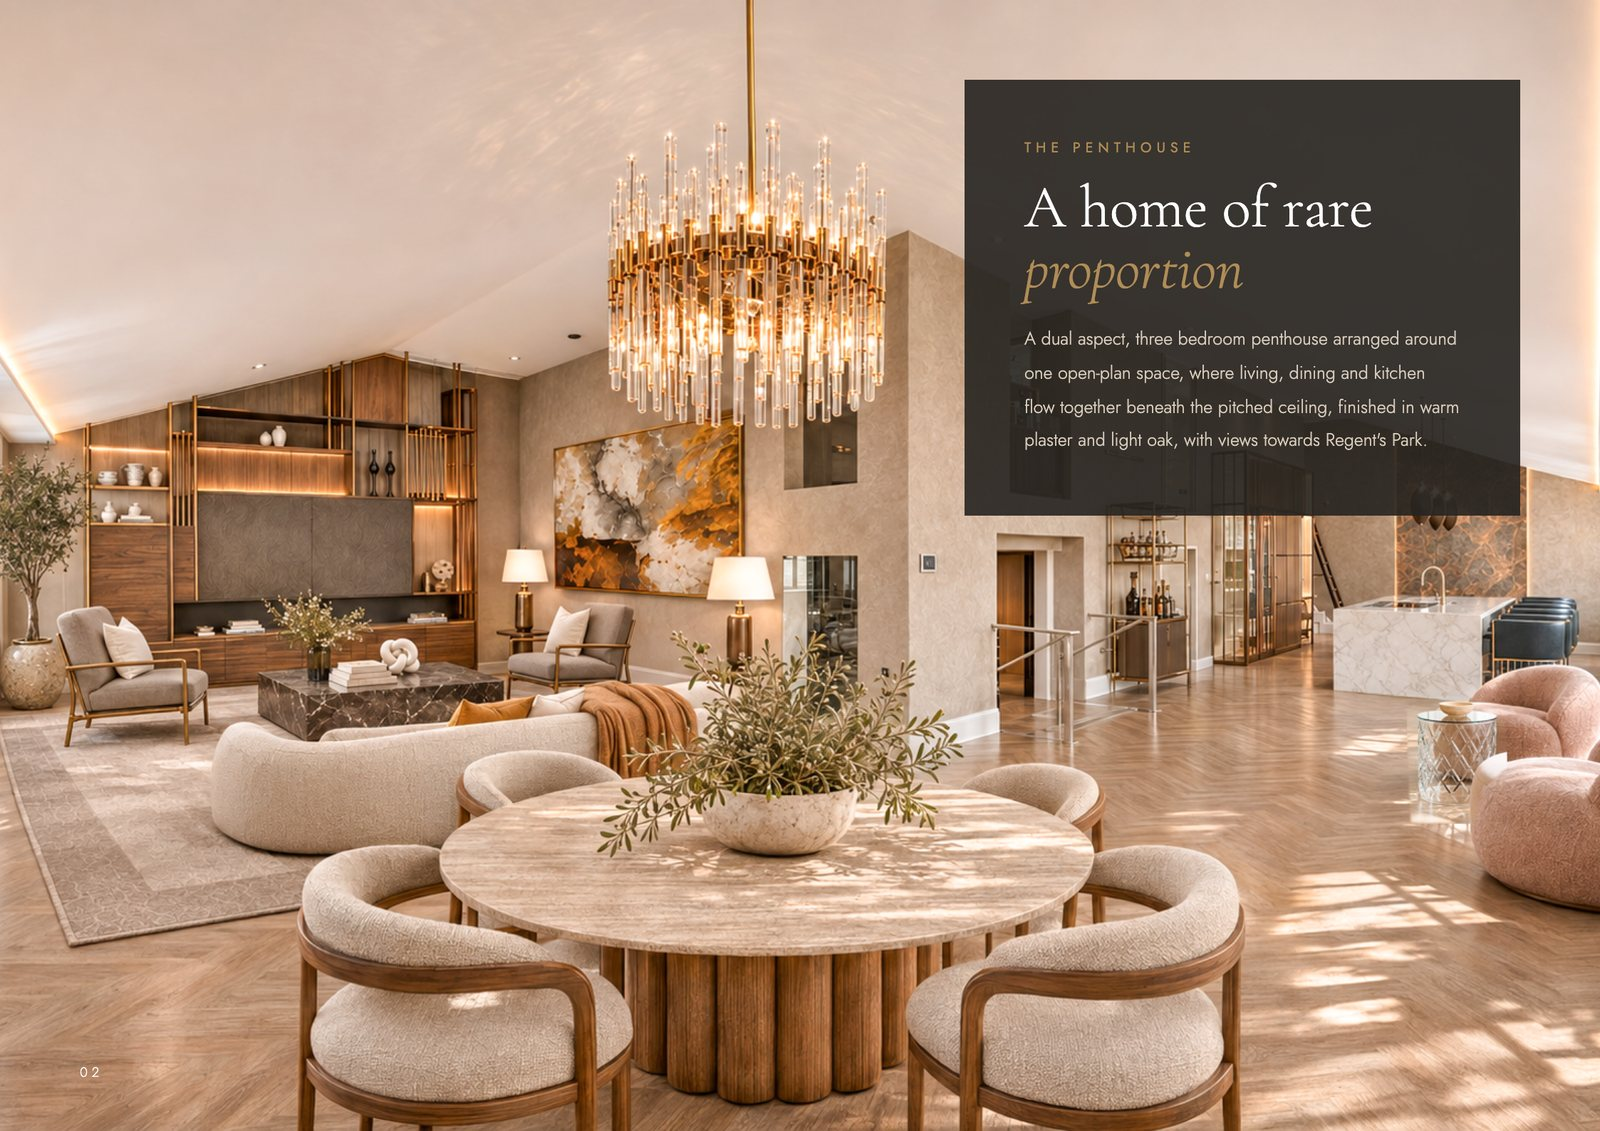
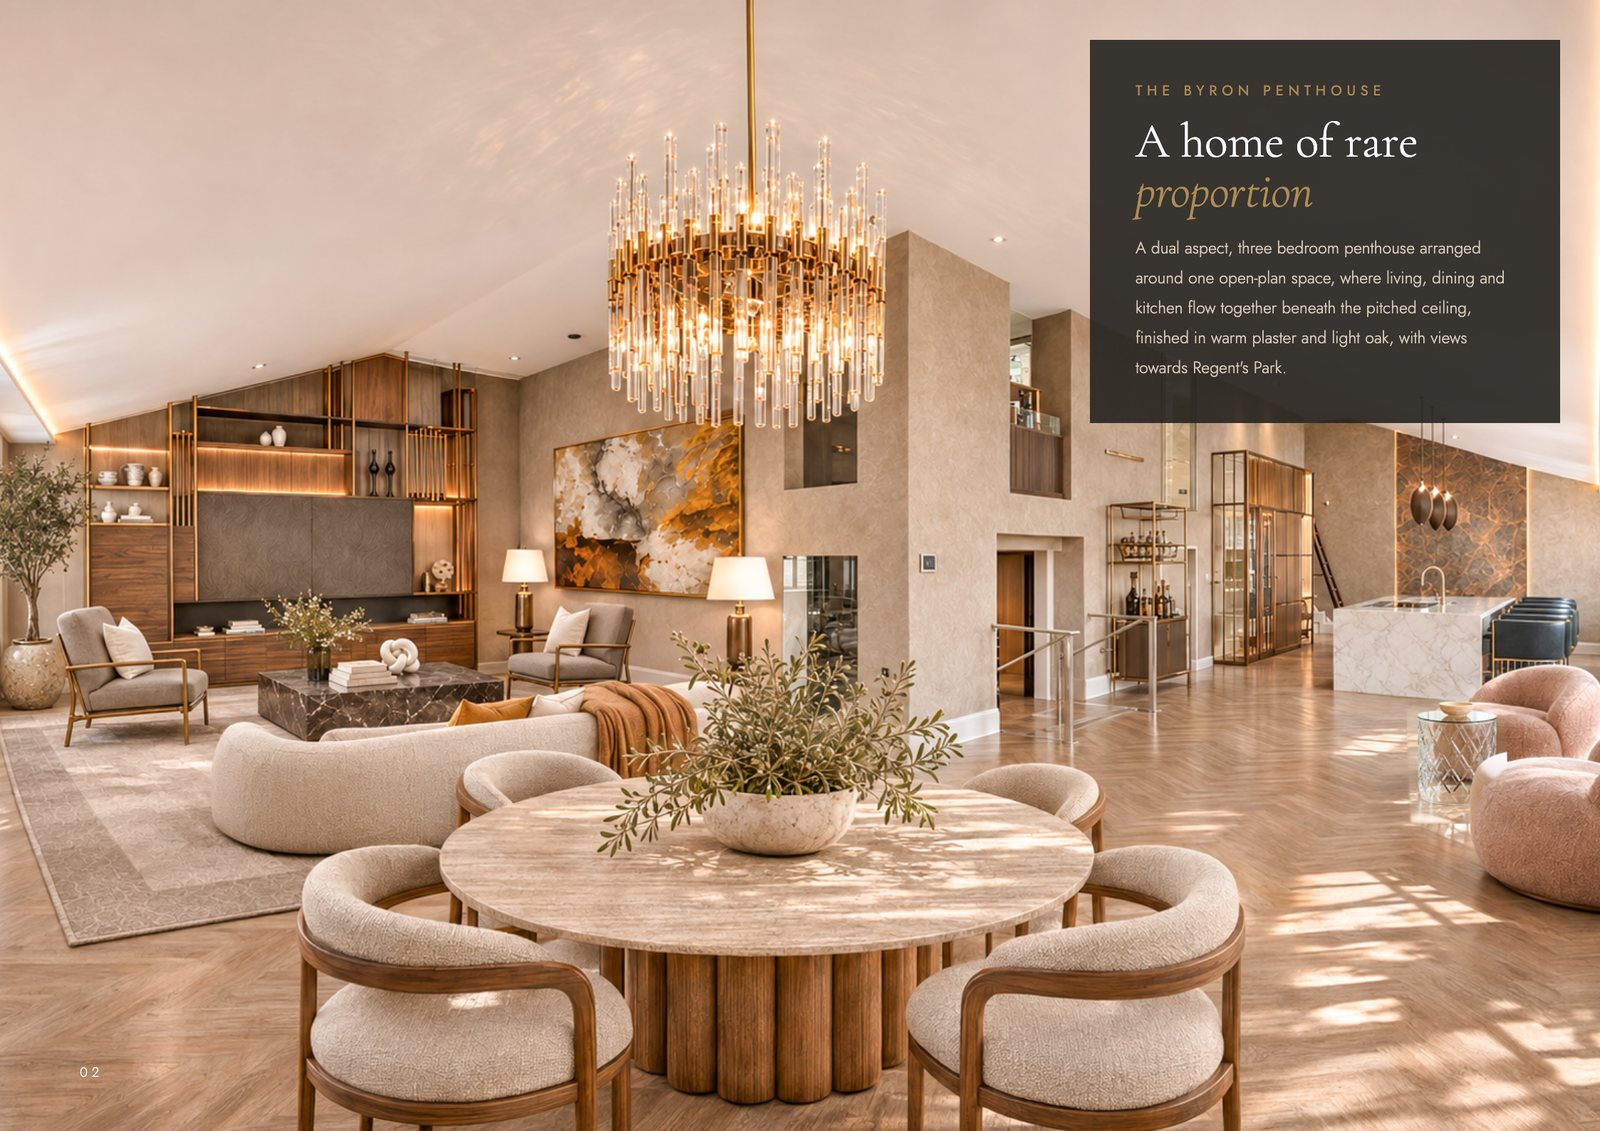
Brochure page 2: "The Byron Penthouse" eyebrow, smaller corner panel
Eyebrow now reads "The Byron Penthouse". The text panel is about 15%
smaller (330px wide, tighter padding, 34px heading) and sits 28px from the
top-right corner, over the ceiling only, so the room stays clear.

Changed region(s): [[0.5938, 0.0309, 1.0, 0.4642]]

diff --git a/brochure-src/brochure.html b/brochure-src/brochure.html
@@ -45,9 +45,9 @@ p{font-size:12.6px;line-height:1.9;color:#4a443d}
 <!-- 02 LIVING & DINING (full-bleed) -->
 <div class="page" id="p2">
  <div class="ph" style="inset:0;background-image:url(renders/01-living-dining.png);background-size:cover;background-position:50% 50%"></div>
- <div class="box" style="right:56px;top:56px">
-  <div class="eb">The Penthouse</div><h2 class="disp">A home of rare <i>proportion</i></h2>
-  <p>A dual aspect, three bedroom penthouse arranged around one open-plan space, where living, dining and kitchen flow together beneath the pitched ceiling, finished in warm plaster and light oak, with views towards Regent's Park.</p>
+ <div class="box" style="right:28px;top:28px;width:330px;padding:28px 32px">
+  <div class="eb">The Byron Penthouse</div><h2 class="disp" style="font-size:34px;margin:12px 0 12px">A home of rare <i>proportion</i></h2>
+  <p style="font-size:11.6px;line-height:1.8">A dual aspect, three bedroom penthouse arranged around one open-plan space, where living, dining and kitchen flow together beneath the pitched ceiling, finished in warm plaster and light oak, with views towards Regent's Park.</p>
  </div>
  <div class="pn" style="left:56px;color:#fff">02</div>
 </div>

diff --git a/public/98pp/index.html b/public/98pp/index.html
@@ -26,7 +26,7 @@ body{position:relative;height:100vh;min-height:620px;overflow:hidden}
 <button class="nav" id="prev" aria-label="Previous page">‹</button>
 <div class="stage"><div id="holder"></div><template id="tpl"><div id="book">
 <div class="page"><img src="pages/p1.jpg" alt="Cover"></div>
-<div class="page"><img src="pages/p2.jpg" alt="The penthouse"></div>
+<div class="page"><img src="pages/p2.jpg" alt="The Byron Penthouse"></div>
 <div class="page"><img src="pages/p3.jpg" alt="The residence"></div>
 <div class="page"><img src="pages/p4.jpg" alt="Reception"></div>
 <div class="page"><img src="pages/p5.jpg" alt="Living and dining"></div>
